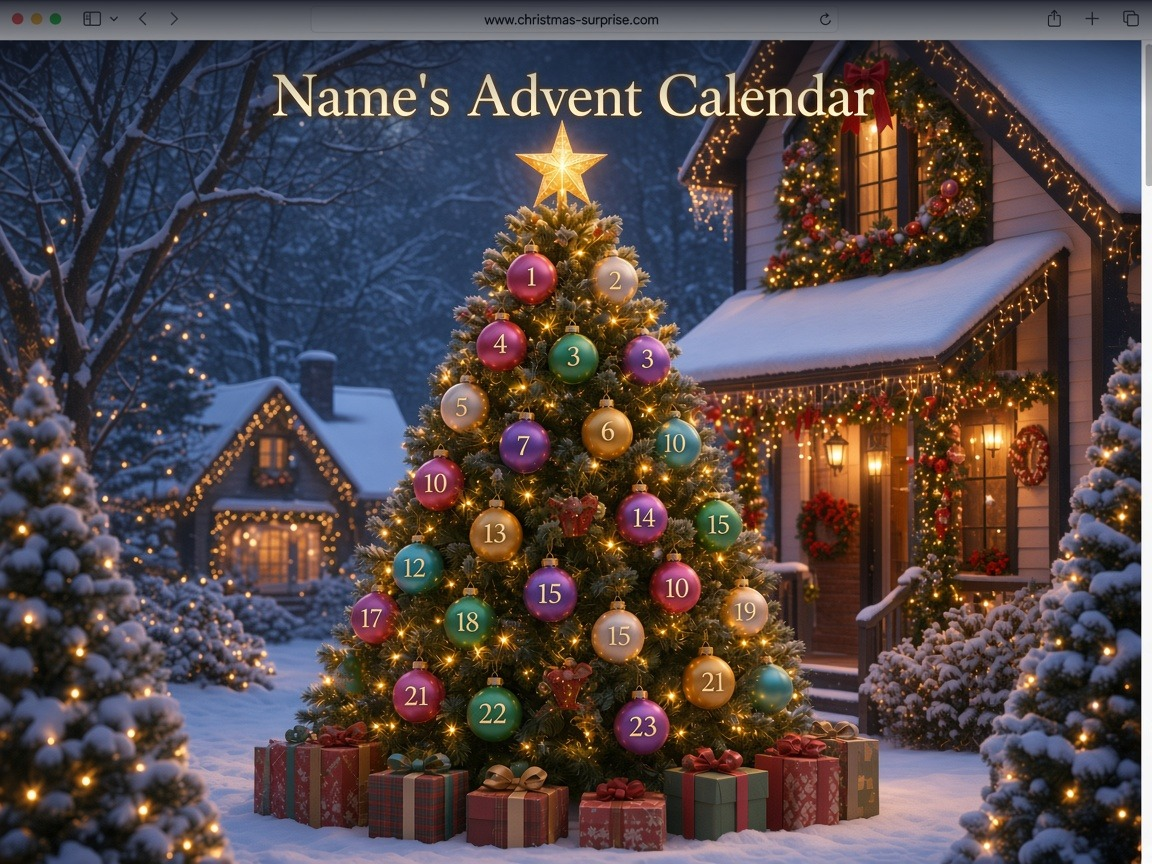
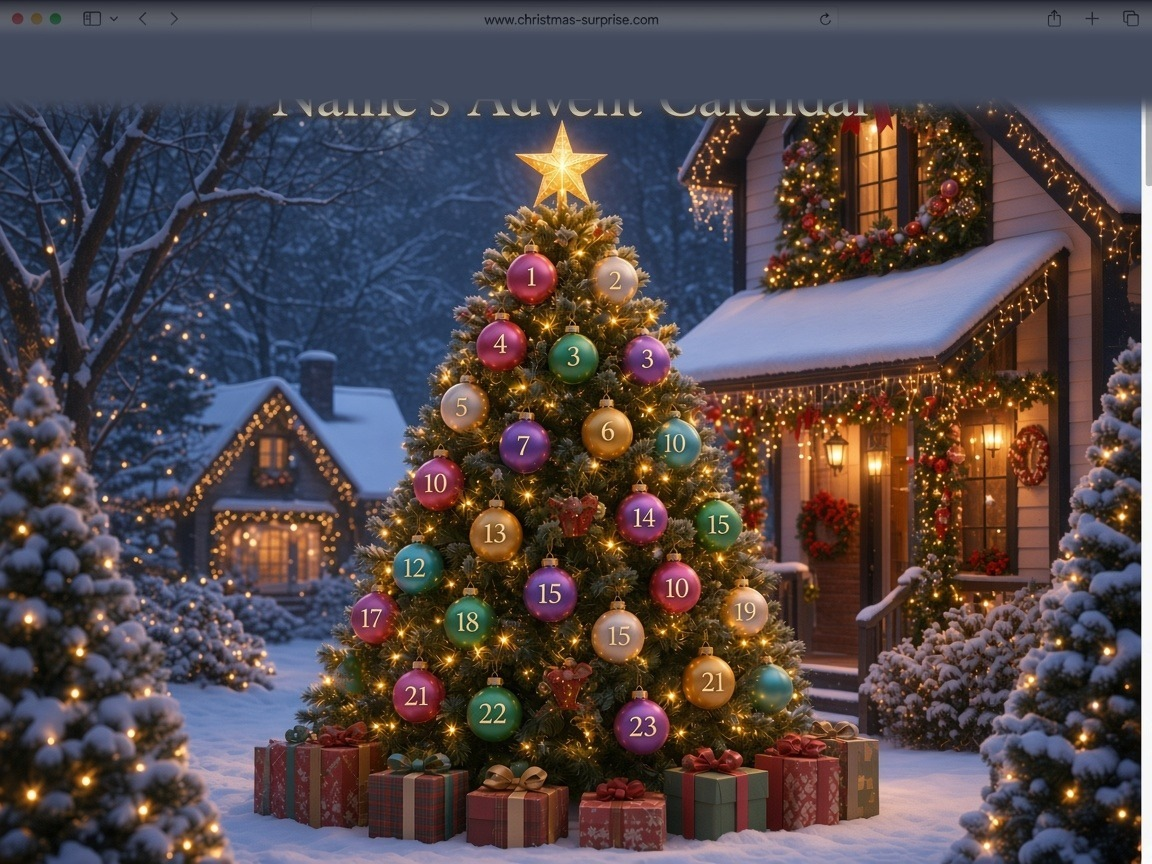
Polish calendar UI: fit elegant windows, title overlays, and preview layout.
Tighten hotspot hitboxes to glass panes, move “with love from” to the footer, mask baked-in titles on designs, and refresh main-page copy.

Changed region(s): [[0.0, 0.0312, 1.0, 0.1562]]

diff --git a/public/styles.css b/public/styles.css
@@ -2132,22 +2132,22 @@ body[data-design="elegant"] .decor-star {
   width: 100%;
   height: 180px;
   object-fit: cover;
-  /* Crop past baked-in titles (they sit at different heights per image) */
-  object-position: center 58%;
+  /* Crop past any leftover baked-in title band */
+  object-position: center 62%;
 }
 
-/* Fully hide baked-in titles (different heights per image) so previews match */
+/* Fully hide baked-in titles on all three design cards */
 .mini-photo::after {
   content: "";
   position: absolute;
   left: 0;
   right: 0;
   top: 0;
-  height: 38%;
+  height: 42%;
   background: linear-gradient(
     180deg,
     #120e0c 0%,
-    #120e0c 52%,
+    #120e0c 70%,
     rgba(18, 14, 12, 0) 100%
   );
   pointer-events: none;
@@ -2175,6 +2175,57 @@ body[data-design="elegant"] .decor-star {
   background: #120e0c;
 }
 
+/* Keep Create link / Back visible without scrolling */
+.preview-page .calendar-head-slim {
+  margin-bottom: 4px;
+}
+
+.preview-page .image-scene {
+  width: min(100%, 670px);
+  margin: 4px auto 10px;
+  border-radius: 18px;
+  box-shadow: 0 14px 36px rgba(0, 0, 0, 0.24);
+}
+
+.preview-page .scene-title-overlay {
+  min-height: 11%;
+  padding: 10px 14px 12px;
+}
+
+.preview-page .scene-title-overlay h2 {
+  font-size: clamp(1.05rem, 2.2vw, 1.45rem);
+}
+
+.preview-page .scene-from-footer {
+  font-size: 0.86rem;
+  padding-bottom: 10px;
+}
+
+.preview-page .actions {
+  margin-top: 8px;
+}
+
+.preview-page .fine {
+  margin-top: 8px;
+  font-size: 0.86rem;
+}
+
+@media (max-height: 860px) {
+  .preview-page .image-scene {
+    width: min(100%, 580px);
+  }
+}
+
+@media (max-height: 740px) {
+  .preview-page .image-scene {
+    width: min(100%, 480px);
+  }
+
+  .preview-page .fine {
+    display: none;
+  }
+}
+
 .scene-art-wrap {
   position: relative;
   width: 100%;
@@ -2194,18 +2245,25 @@ body[data-design="elegant"] .decor-star {
   top: 0;
   z-index: 2;
   width: 100%;
-  min-height: 14%;
-  padding: clamp(14px, 2.2vw, 22px) 20px clamp(16px, 2.4vw, 24px);
+  min-height: 15%;
+  padding: clamp(14px, 2.2vw, 22px) 20px clamp(18px, 2.6vw, 28px);
   border-radius: 0;
   text-align: center;
   display: flex;
   flex-direction: column;
   align-items: center;
   justify-content: center;
-  background: linear-gradient(180deg, rgba(10, 14, 22, 0.88) 0%, rgba(10, 14, 22, 0.72) 70%, rgba(10, 14, 22, 0));
+  /* Fully cover any baked-in placeholder title in the scene art */
+  background: linear-gradient(
+    180deg,
+    rgba(10, 14, 22, 0.94) 0%,
+    rgba(10, 14, 22, 0.86) 55%,
+    rgba(10, 14, 22, 0.35) 82%,
+    rgba(10, 14, 22, 0) 100%
+  );
   border: 0;
   box-shadow: none;
-  backdrop-filter: blur(2px);
+  backdrop-filter: blur(4px);
   pointer-events: none;
 }
 
@@ -2221,13 +2279,26 @@ body[data-design="elegant"] .decor-star {
   text-wrap: balance;
 }
 
-.scene-title-from {
-  margin: 8px 0 0;
-  width: min(90%, 640px);
+.scene-from-footer {
+  position: absolute;
+  left: 0;
+  right: 0;
+  bottom: 0;
+  z-index: 2;
+  margin: 0;
+  padding: 28px 16px 14px;
+  text-align: center;
   font-size: 0.95rem;
   font-style: italic;
   color: #e8bf70;
   line-height: 1.2;
+  pointer-events: none;
+  background: linear-gradient(
+    0deg,
+    rgba(10, 14, 22, 0.78) 0%,
+    rgba(10, 14, 22, 0.35) 55%,
+    rgba(10, 14, 22, 0) 100%
+  );
 }
 
 .hotspot-layer {
@@ -2265,7 +2336,8 @@ body.debug-hotspots .hotspot .num {
 }
 
 .hotspot.is-window {
-  border-radius: 8px;
+  border-radius: 4px;
+  border-width: 1.5px;
 }
 
 .hotspot.is-bauble {
@@ -2313,25 +2385,28 @@ body.debug-hotspots .hotspot .num {
 }
 
 .hotspot.is-today {
-  border-color: #e8bf70;
-  box-shadow: 0 0 0 2px rgba(232, 191, 112, 0.4), 0 0 24px rgba(232, 191, 112, 0.55);
+  border-color: rgba(232, 191, 112, 0.45);
+  box-shadow: 0 0 0 1px rgba(232, 191, 112, 0.18), 0 0 14px rgba(232, 191, 112, 0.22);
   z-index: 4;
 }
 
 .hotspot:focus-visible {
-  outline: 3px solid #e8bf70;
-  outline-offset: 3px;
+  outline: 2px solid rgba(232, 191, 112, 0.55);
+  outline-offset: 2px;
 }
 
 @media (hover: hover) and (prefers-reduced-motion: no-preference) {
   .hotspot {
-    transition: border-color 160ms ease, box-shadow 160ms ease, background 160ms ease;
+    transition:
+      border-color 480ms ease,
+      box-shadow 520ms ease,
+      background 480ms ease;
   }
 
   .hotspot:hover {
-    border-color: rgba(232, 191, 112, 0.9);
-    background: rgba(232, 191, 112, 0.12);
-    box-shadow: 0 0 18px rgba(232, 191, 112, 0.35);
+    border-color: rgba(232, 191, 112, 0.42);
+    background: rgba(232, 191, 112, 0.06);
+    box-shadow: 0 0 12px rgba(232, 191, 112, 0.16);
     z-index: 5;
   }
 }
@@ -2346,8 +2421,9 @@ body.debug-hotspots .hotspot .num {
     font-size: 1.1rem;
   }
 
-  .scene-title-from {
+  .scene-from-footer {
     font-size: 0.86rem;
+    padding: 22px 12px 12px;
   }
 
   .hotspot .state {

diff --git a/public/app.js b/public/app.js
@@ -5,10 +5,11 @@ const app = document.querySelector("#app");
    ============================================ */
 const PAGE_COPY = {
   eyebrow: "A small December gift",
-  title: "A little Christmas magic, made for someone.",
-  intro: "Choose a design, add your names, and hide 24 wishes for December.",
-  recipientLabel: "Their name",
-  senderLabel: "From whom",
+  title: "A little Christmas magic made for someone special.",
+  intro:
+    "Choose a design, add your names, and share 24 wishes for December with those you care about.",
+  recipientLabel: "For",
+  senderLabel: "From",
   designsLabel: "Design",
   previewButton: "Preview calendar",
   backButton: "Back",
@@ -71,30 +72,31 @@ const HOTSPOTS = {
     24: { left: 43.0, top: 75.5, w: 10.0, h: 11.0 }
   },
   elegant: {
-    1: { left: 25.3, top: 39.3, w: 7.0, h: 9.0 },
-    2: { left: 33.3, top: 39.3, w: 7.0, h: 9.0 },
-    3: { left: 40.5, top: 39.3, w: 7.0, h: 9.0 },
-    4: { left: 57.5, top: 39.3, w: 7.0, h: 9.0 },
-    5: { left: 65.0, top: 39.3, w: 7.0, h: 9.0 },
-    6: { left: 72.5, top: 39.3, w: 7.0, h: 9.0 },
-    7: { left: 25.3, top: 53.3, w: 7.0, h: 9.0 },
-    8: { left: 33.3, top: 53.3, w: 7.0, h: 9.0 },
-    9: { left: 40.5, top: 53.3, w: 7.0, h: 9.0 },
-    10: { left: 57.5, top: 53.3, w: 7.0, h: 9.0 },
-    11: { left: 65.0, top: 53.3, w: 7.0, h: 9.0 },
-    12: { left: 72.5, top: 53.3, w: 7.0, h: 9.0 },
-    13: { left: 25.3, top: 67.3, w: 7.0, h: 9.0 },
-    14: { left: 33.3, top: 67.3, w: 7.0, h: 9.0 },
-    15: { left: 40.5, top: 67.3, w: 7.0, h: 9.0 },
-    16: { left: 57.5, top: 67.3, w: 7.0, h: 9.0 },
-    17: { left: 65.0, top: 67.3, w: 7.0, h: 9.0 },
-    18: { left: 72.5, top: 67.3, w: 7.0, h: 9.0 },
-    19: { left: 25.3, top: 80.7, w: 7.0, h: 9.0 },
-    20: { left: 33.3, top: 80.7, w: 7.0, h: 9.0 },
-    21: { left: 40.5, top: 80.7, w: 7.0, h: 9.0 },
-    22: { left: 57.5, top: 80.7, w: 7.0, h: 9.0 },
-    23: { left: 65.0, top: 80.7, w: 7.0, h: 9.0 },
-    24: { left: 72.5, top: 80.7, w: 7.0, h: 9.0 }
+    /* Pixel-fitted to each window's glowing glass pane */
+    1: { left: 24.2, top: 40.8, w: 5.2, h: 6.4 },
+    2: { left: 33.2, top: 41.2, w: 4.8, h: 6.4 },
+    3: { left: 41.4, top: 41.2, w: 4.6, h: 6.4 },
+    4: { left: 57.2, top: 41.6, w: 4.4, h: 6.4 },
+    5: { left: 64.5, top: 42.0, w: 4.6, h: 6.4 },
+    6: { left: 72.3, top: 42.4, w: 4.2, h: 6.4 },
+    7: { left: 24.6, top: 53.8, w: 5.0, h: 6.4 },
+    8: { left: 33.0, top: 54.0, w: 5.2, h: 6.4 },
+    9: { left: 41.6, top: 54.4, w: 4.8, h: 6.4 },
+    10: { left: 57.2, top: 54.6, w: 4.6, h: 6.4 },
+    11: { left: 64.8, top: 54.8, w: 4.4, h: 6.4 },
+    12: { left: 72.3, top: 55.0, w: 4.4, h: 6.4 },
+    13: { left: 24.4, top: 67.6, w: 5.2, h: 6.4 },
+    14: { left: 33.4, top: 67.6, w: 4.8, h: 6.4 },
+    15: { left: 41.6, top: 67.6, w: 4.4, h: 6.4 },
+    16: { left: 57.4, top: 67.8, w: 4.2, h: 6.4 },
+    17: { left: 64.8, top: 67.8, w: 4.4, h: 6.4 },
+    18: { left: 72.3, top: 67.8, w: 4.4, h: 6.4 },
+    19: { left: 25.0, top: 81.6, w: 4.8, h: 6.2 },
+    20: { left: 33.4, top: 81.6, w: 4.8, h: 6.2 },
+    21: { left: 41.6, top: 81.6, w: 4.4, h: 6.2 },
+    22: { left: 57.4, top: 81.4, w: 4.2, h: 6.2 },
+    23: { left: 64.9, top: 81.4, w: 4.4, h: 6.2 },
+    24: { left: 72.3, top: 81.4, w: 4.4, h: 6.2 }
   },
   surprise: {
     1: { left: 43.9, top: 27.6, w: 5.2, h: 6.8 },
@@ -188,8 +190,8 @@ function calendarSceneHtml(design, doors, openedDays, interactive, recipientName
         <img class="scene-art" src="${art}" alt="" />
         <div class="scene-title-overlay">
           <h2>${esc(possessiveName(recipientName))} Advent Calendar</h2>
-          <p class="scene-title-from">with love from ${esc(fromName)}</p>
         </div>
+        <p class="scene-from-footer">with love from ${esc(fromName)}</p>
         <div class="hotspot-layer">${spots}</div>
       </div>
     </section>`;
@@ -322,7 +324,8 @@ function creatorHtml() {
 }
 
 function previewHtml() {
-  return `${calendarHeadingHtml({
+  return `<div class="preview-page">
+    ${calendarHeadingHtml({
       eyebrow: "Preview",
       note: statusLine(state.preview)
     })}
@@ -332,7 +335,8 @@ function previewHtml() {
       <button class="btn secondary" id="back" type="button">${esc(PAGE_COPY.backButton)}</button>
     </div>
     ${state.error ? `<p class="error">${esc(state.error)}</p>` : ""}
-    <p class="fine">The link is the gift. Copy it into a message, an email, or a chat. Wishes are chosen once and stay on these days.</p>`;
+    <p class="fine">The link is the gift. Copy it into a message, an email, or a chat. Wishes are chosen once and stay on these days.</p>
+  </div>`;
 }
 
 function linkHtml() {
